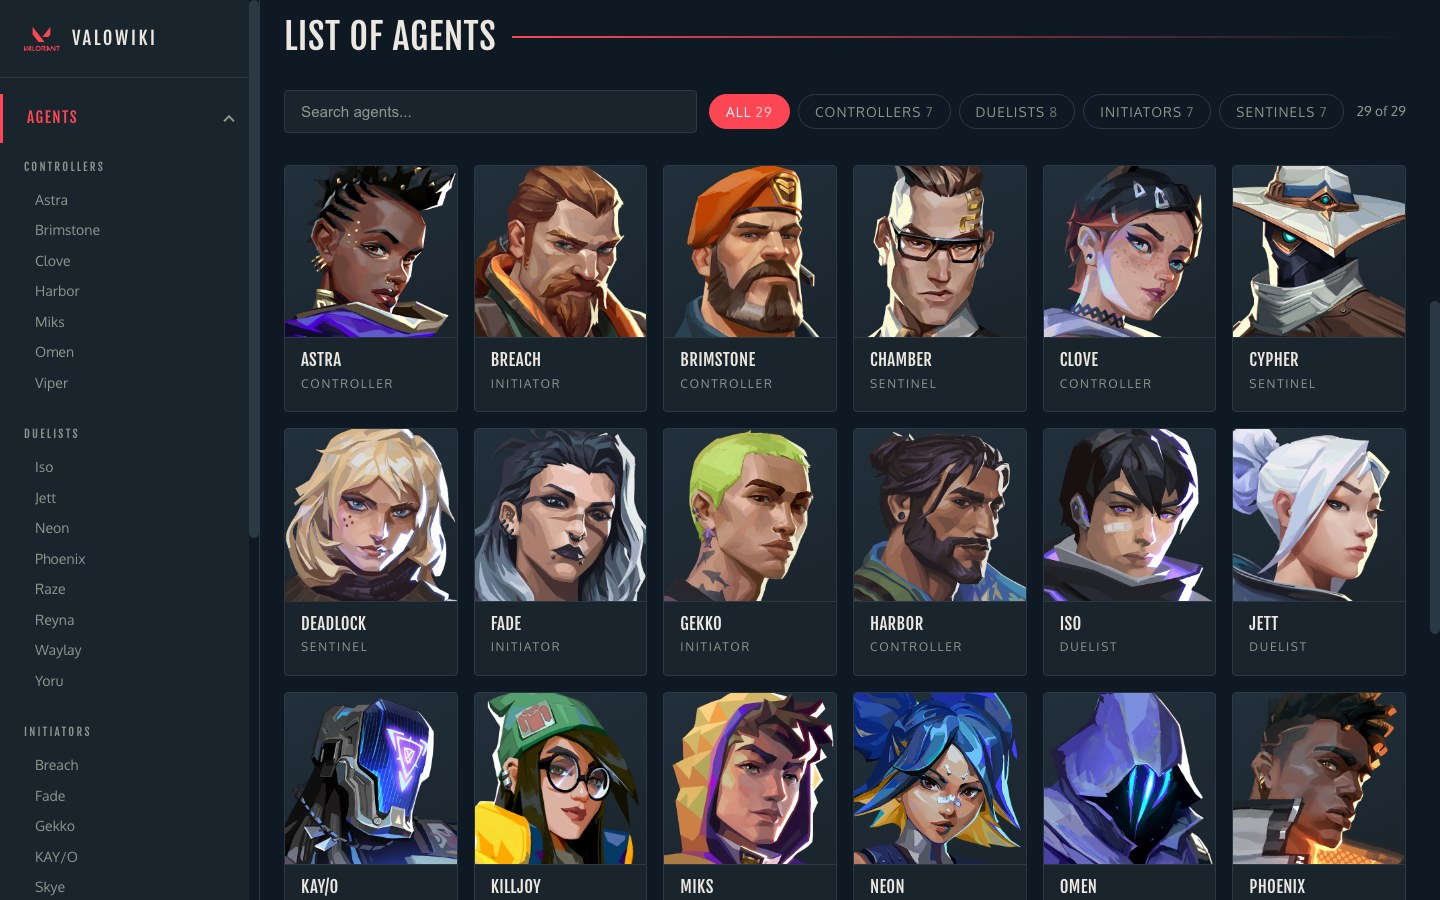
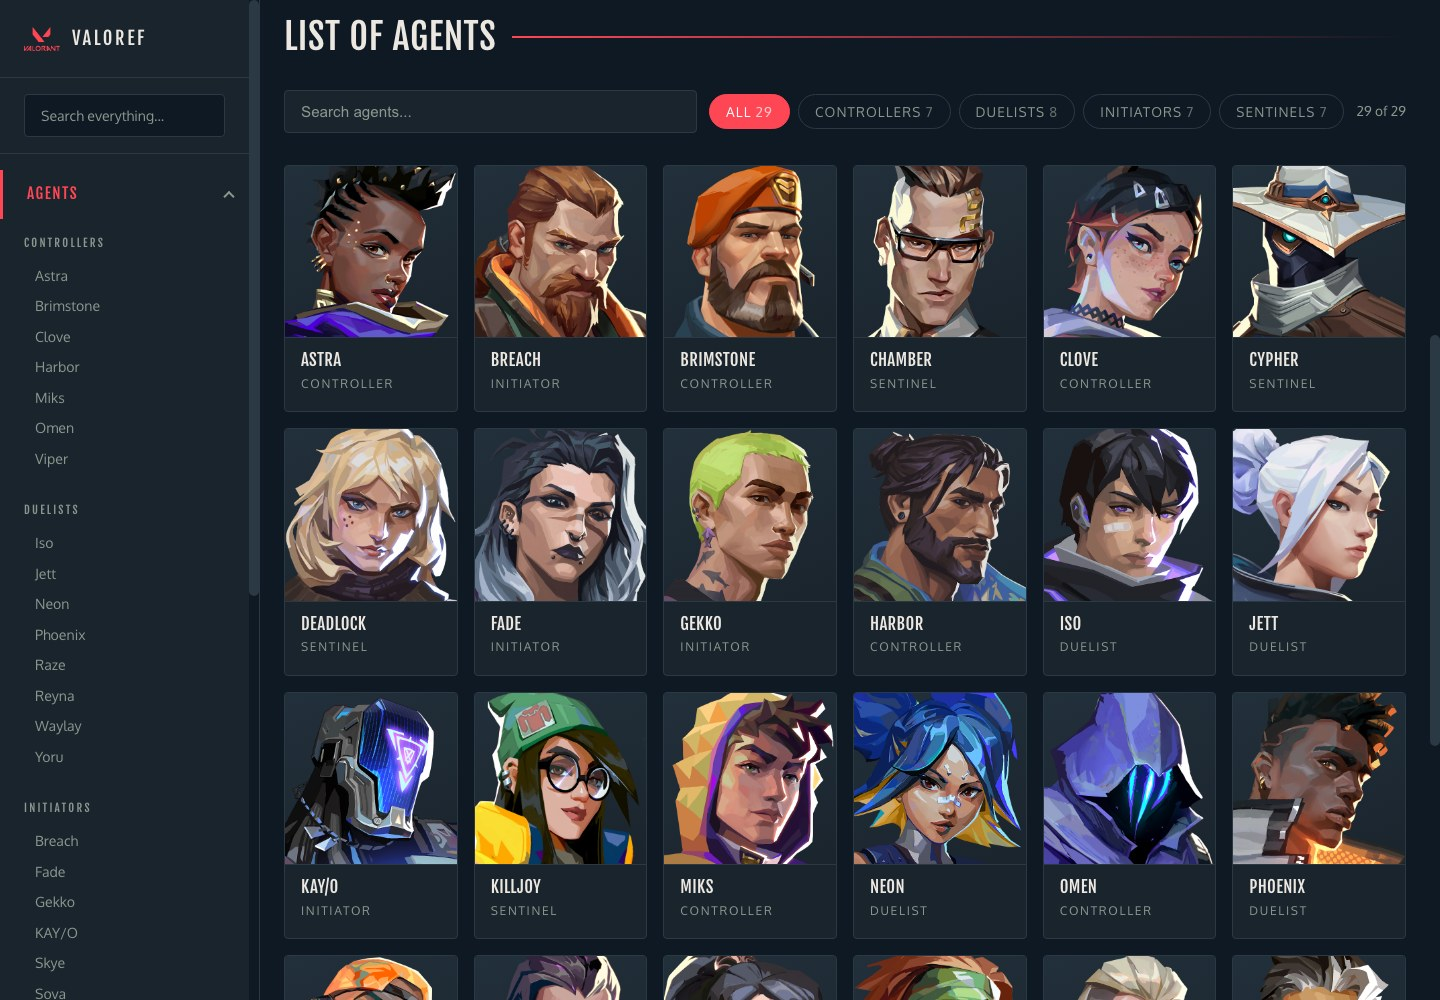
Rename the app to ValoREF and reduce the team to one
Drop the other two contributor cards and their portraits, leaving Brian Lee.
A lone card in an auto-fit grid stretched the full page width, so the track is
now capped and centred.

Rebrand throughout: the sidebar, the home hero, every page eyebrow, the
disclaimer, the document title, the web manifest and the package name. The
footer's "coolbeans inc." becomes ValoREF, and the team heading loses it too
now that the byline no longer matches who is listed.

The repository keeps its name, so the GitHub Pages path is unchanged - the
deploy workflow derives PUBLIC_URL from the repo rather than from anything the
app calls itself, and the comment in App.js now says so instead of naming a
path that could drift.

All 25 screenshots regenerated: every one carried the old wordmark in the
sidebar.

diff --git a/src/components/pages/Contact.jsx b/src/components/pages/Contact.jsx
@@ -6,42 +6,10 @@ export default function Contact() {
     <>
       <div className="page">
         <header className="page-head center">
-          <span className="eyebrow">Valowiki</span>
-          <h1>Meet the coolbeans team!</h1>
+          <span className="eyebrow">ValoREF</span>
+          <h1>Meet the team</h1>
         </header>
         <main className="cards-contact">
-        <article className="card-contact">
-          <img src="images/clair.png" alt="Clair Choo" />
-          <div className="text">
-            <h3>Clair Choo</h3>
-            <p className="inner-text">I am a full-stack software engineer that believes every experience, good or bad, is a priceless collector’s item. My pragmatic brain gives me the patience to adjust and adapt to constantly changing processes, and keeps me curious and yearning to learn. Having worked in various industries allowed me to acquire the skills to prioritize and work efficiently, all while maintaining the high standards I set for myself. My mind keeps me motivated, my grit is what keeps me striving.</p>
-            <div className="card-socials">
-              <a href="https://github.com/clairxc" target="_blank" rel="noreferrer">
-                <FaGithub size={30}/>
-              </a>
-              <a href="https://www.linkedin.com/in/clair-choo/" target="_blank" rel="noreferrer">
-                <FaLinkedin size={30}/>
-              </a>
-            </div>
-          </div>
-        </article>
-        <article className="card-contact">
-          <img src="images/sol.jpg" alt="Sol Youn" />
-          <div className="text">
-            <h3>Sol Youn</h3>
-            <p className="inner-text">
-            A Software Developer with a background in the healthcare industry where I learned to be open-minded, resilient, and detail-oriented. I’m always ready to fearlessly spearhead the next project. Currently searching for exciting opportunities to apply my technical and communication skills.
-            </p>
-            <div className="card-socials">
-              <a href="https://github.com/Luflos" target="_blank" rel="noreferrer">
-                <FaGithub size={30}/>
-              </a>
-              <a href="https://www.linkedin.com/in/sol-youn/" target="_blank" rel="noreferrer">
-                <FaLinkedin size={30}/>
-              </a>
-            </div>
-          </div>
-        </article>
         <article className="card-contact">
           <img src="images/brian.jpg" alt="Brian Lee" />
           <div className="text">

diff --git a/src/components/pages/Home.jsx b/src/components/pages/Home.jsx
@@ -38,7 +38,7 @@ export default function Home() {
         />
         <div className="hero-overlay">
           <span className="eyebrow">Your Valorant Companion</span>
-          <h1 className="hero-title">Valowiki</h1>
+          <h1 className="hero-title">ValoREF</h1>
           <p className="hero-lead">
             Everything you need on agents, maps and weapons - pulled live from
             the Valorant API, so it never goes stale.
@@ -79,7 +79,7 @@ export default function Home() {
         <section className="home-about">
           <h2 className="section-title">About</h2>
           <p>
-            Valowiki is built for Valorant players who want to learn more about
+            ValoREF is built for Valorant players who want to learn more about
             their favourite agents and improve their gameplay.{" "}
             <a
               href="https://playvalorant.com/en-us/"
@@ -100,7 +100,7 @@ export default function Home() {
         </section>
 
         <p className="disclaimer">
-          Valowiki isn't endorsed by Riot Games and doesn't reflect the views or
+          ValoREF isn't endorsed by Riot Games and doesn't reflect the views or
           opinions of Riot Games or anyone officially involved in producing or
           managing Riot Games properties. Riot Games, and all associated
           properties are trademarks or registered trademarks of Riot Games, Inc.

diff --git a/src/components/layout/Sidebar.jsx b/src/components/layout/Sidebar.jsx
@@ -95,7 +95,7 @@ export default function Sidebar({ agents = [], gameMaps = [], weapons = [] }) {
         </button>
         <Link to="/" className="topbar-brand">
           <img src="/images/logo.png" alt="" />
-          <span>Valowiki</span>
+          <span>ValoREF</span>
         </Link>
       </header>
 
@@ -110,7 +110,7 @@ export default function Sidebar({ agents = [], gameMaps = [], weapons = [] }) {
       <aside className={`sidebar${drawerOpen ? " is-open" : ""}`}>
         <Link to="/" className="sidebar-brand">
           <img src="/images/logo.png" alt="" />
-          <span>Valowiki</span>
+          <span>ValoREF</span>
         </Link>
 
         <SearchBox agents={agents} gameMaps={gameMaps} weapons={weapons} />

diff --git a/public/index.html b/public/index.html
@@ -7,7 +7,7 @@
     <meta name="theme-color" content="#000000" />
     <meta
       name="description"
-      content="Web site created using create-react-app"
+      content="A Valorant reference for agents, maps, weapons, skins and line ups."
     />
     <link rel="apple-touch-icon" href="%PUBLIC_URL%/logo192.png" />
     <!--
@@ -24,7 +24,7 @@
       work correctly both with client-side routing and a non-root public URL.
       Learn how to configure a non-root public URL by running `npm run build`.
     -->
-    <title>VALOWIKI</title>
+    <title>ValoREF</title>
     <link href="https://cdn.jsdelivr.net/npm/remixicon@2.5.0/fonts/remixicon.css" rel="stylesheet">
   </head>
   <body>

diff --git a/src/App.js b/src/App.js
@@ -70,8 +70,9 @@ function App() {
 
   const data = { status, onRetry: retry }
 
-  // PUBLIC_URL is empty in dev and on root-domain hosts; on GitHub Pages the
-  // deploy workflow sets it to "/valowiki".
+  // PUBLIC_URL is empty in dev and on root-domain hosts. On GitHub Pages the
+  // deploy workflow sets it to the repository name, which is independent of
+  // what the app calls itself.
   return (
     <Router basename={process.env.PUBLIC_URL || "/"}>
       <ScrollToTop />

diff --git a/src/components/layout/Contact.css b/src/components/layout/Contact.css
@@ -1,6 +1,9 @@
 .cards-contact {
    display: grid;
-   grid-template-columns: repeat(auto-fit, minmax(300px, 1fr));
+   /* auto-fit would stretch a lone card across the whole page, so cap the
+      track rather than letting one person fill six columns. */
+   grid-template-columns: repeat(auto-fit, minmax(280px, 360px));
+   justify-content: center;
    gap: var(--space-6);
    align-items: stretch;
 }

diff --git a/src/components/pages/Compare.jsx b/src/components/pages/Compare.jsx
@@ -62,7 +62,7 @@ export default function Compare({ weapons, status, onRetry }) {
   return (
     <div className="page">
       <header className="page-head">
-        <span className="eyebrow">Valowiki</span>
+        <span className="eyebrow">ValoREF</span>
         <h1>Weapon Comparison</h1>
         <p>
           Shots and time to kill, computed from the game's own damage tables.

diff --git a/src/components/pages/Agents.jsx b/src/components/pages/Agents.jsx
@@ -53,7 +53,7 @@ export default function Agents({ agents, status, onRetry }) {
           alt="Valorant agents"
         />
         <div className="agents-hero-overlay">
-          <span className="eyebrow">Valowiki</span>
+          <span className="eyebrow">ValoREF</span>
           <h1>Agents</h1>
           <p>
             {status === "ready"

diff --git a/src/components/pages/Bundles.jsx b/src/components/pages/Bundles.jsx
@@ -134,7 +134,7 @@ export default function Bundles({ weapons, status: weaponStatus, onRetry }) {
   return (
     <div className="page">
       <header className="page-head">
-        <span className="eyebrow">Valowiki</span>
+        <span className="eyebrow">ValoREF</span>
         <h1>Skin Bundles</h1>
         <p>
           {status === "ready"

diff --git a/src/components/pages/Maps.jsx b/src/components/pages/Maps.jsx
@@ -9,7 +9,7 @@ export default function Maps({ gameMaps, status, onRetry }) {
    return (
       <div className="page">
          <header className="page-head">
-            <span className="eyebrow">Valowiki</span>
+            <span className="eyebrow">ValoREF</span>
             <h1>Maps</h1>
             <p>
                {status === "ready"

diff --git a/src/components/pages/Gameplay.jsx b/src/components/pages/Gameplay.jsx
@@ -5,7 +5,7 @@ export default function Gameplay() {
     return (
         <div className="page">
             <header className="page-head">
-                <span className="eyebrow">Valowiki</span>
+                <span className="eyebrow">ValoREF</span>
                 <h1>Valorant Game Plays</h1>
             </header>
 

diff --git a/src/components/pages/Weapons.jsx b/src/components/pages/Weapons.jsx
@@ -42,7 +42,7 @@ export default function Weapons({ weapons, status, onRetry }) {
   return (
     <div className="page">
       <header className="page-head">
-        <span className="eyebrow">Valowiki</span>
+        <span className="eyebrow">ValoREF</span>
         <h1>Weapons</h1>
         <p>
           {status === "ready"
